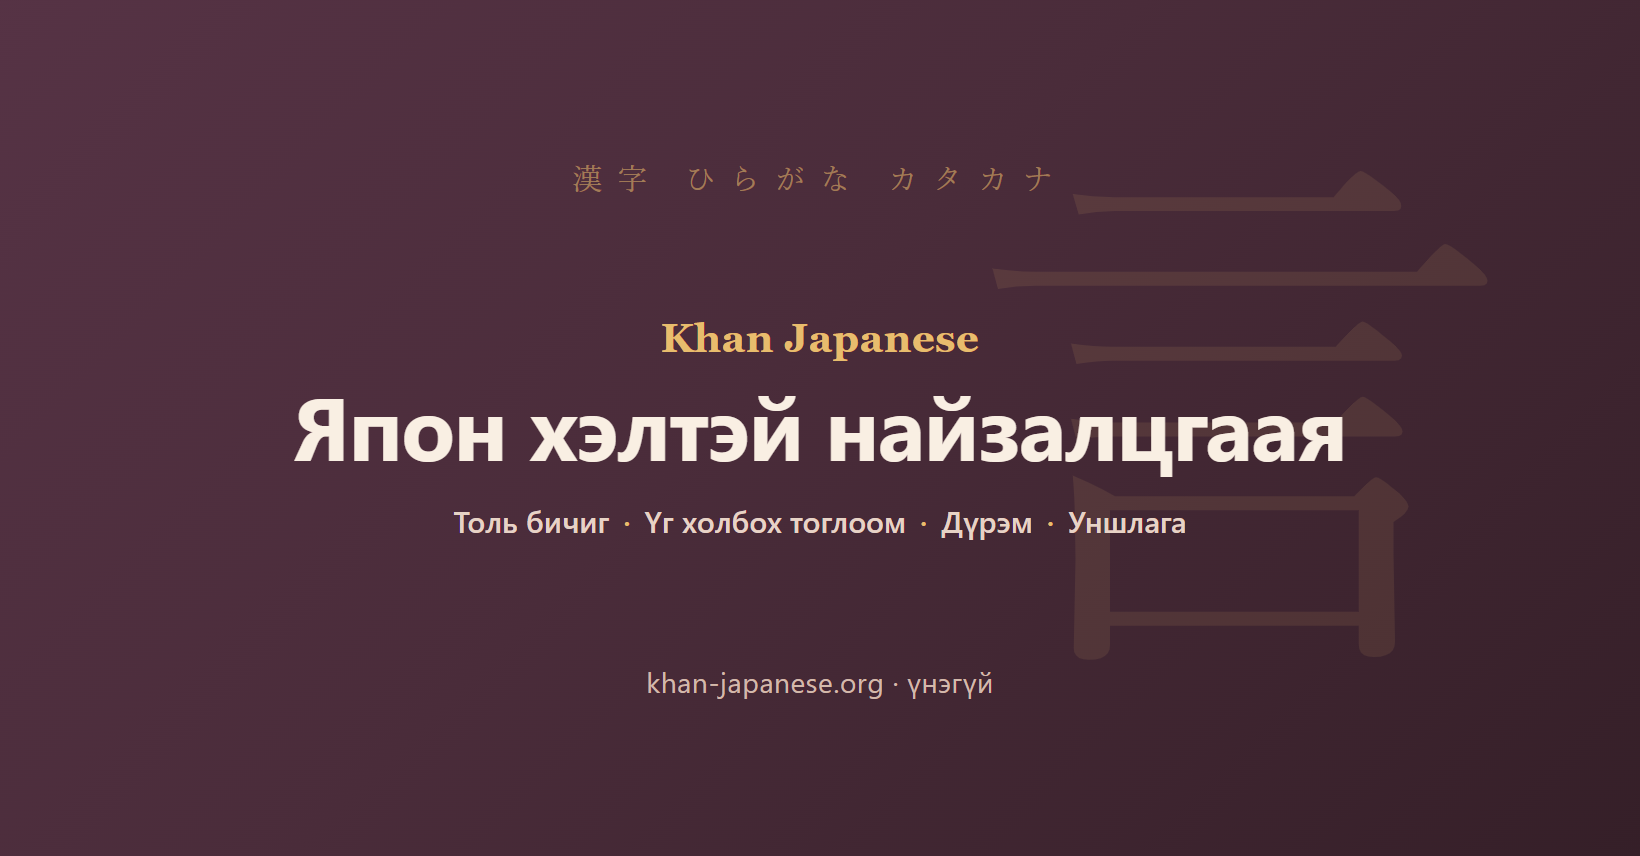
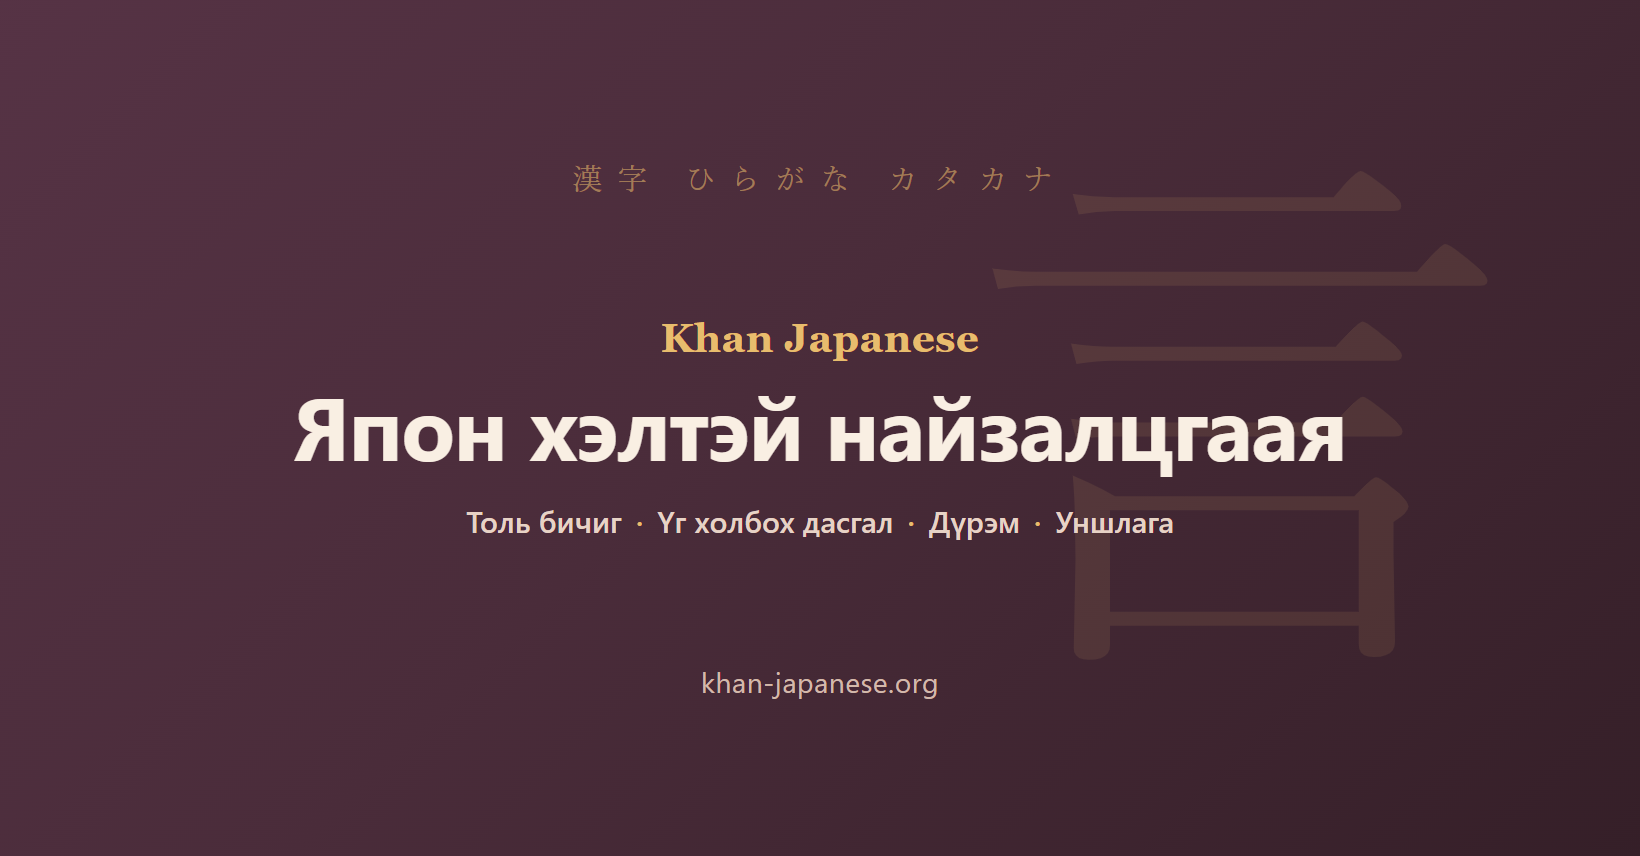
Facebook cover: Үг холбох дасгал, and no үнэгүй
The user's wording: "дасгал" rather than "тоглоом", and "үнэгүй" (free) came
off the web-address line because it made the Page look cheap.

Changed region(s): [[0.2799, 0.5771, 0.7152, 0.6379], [0.3732, 0.7897, 0.622, 0.8201]]

diff --git a/_marketing/facebook/make-images.js b/_marketing/facebook/make-images.js
@@ -47,9 +47,9 @@ h1{margin-top:18px;font-size:88px;line-height:1.05;font-weight:700;letter-spacin
 <div class="mid">
   <div class="word">Khan Japanese</div>
   <h1>Япон хэлтэй найзалцгаая</h1>
-  <div class="tools">Толь бичиг<b>·</b>Үг холбох тоглоом<b>·</b>Дүрэм<b>·</b>Уншлага</div>
+  <div class="tools">Толь бичиг<b>·</b>Үг холбох дасгал<b>·</b>Дүрэм<b>·</b>Уншлага</div>
 </div>
-<div class="url">khan-japanese.org · үнэгүй</div>
+<div class="url">khan-japanese.org</div>
 </body></html>`;
 
 (async () => {
